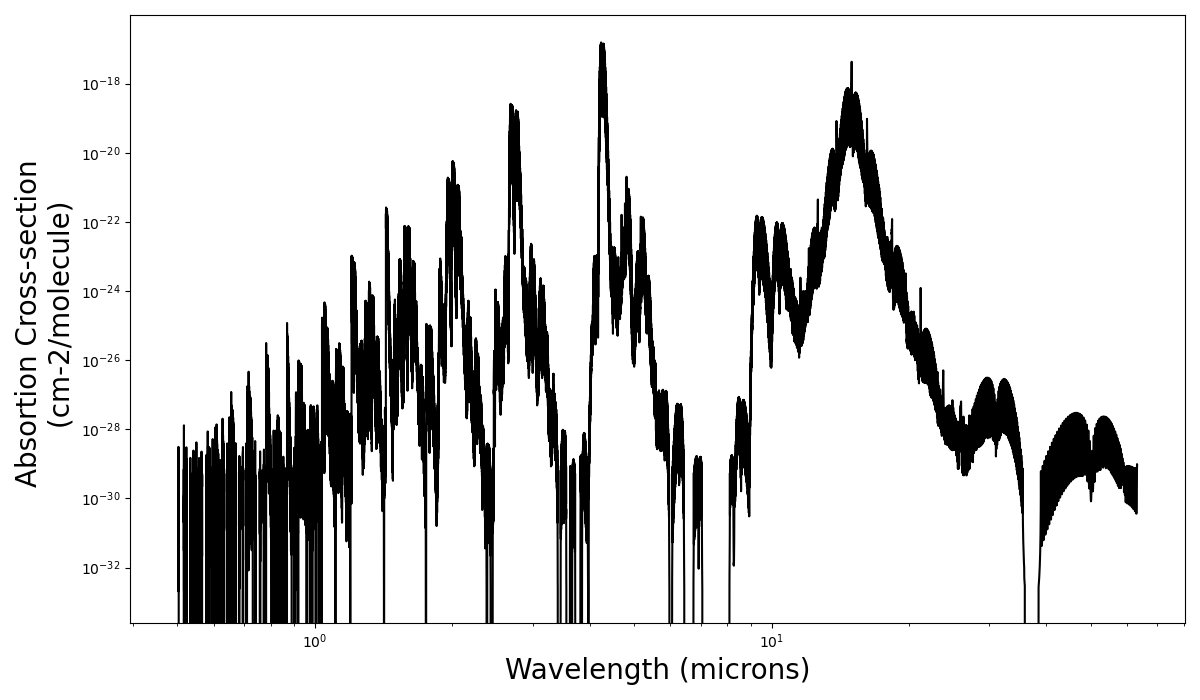
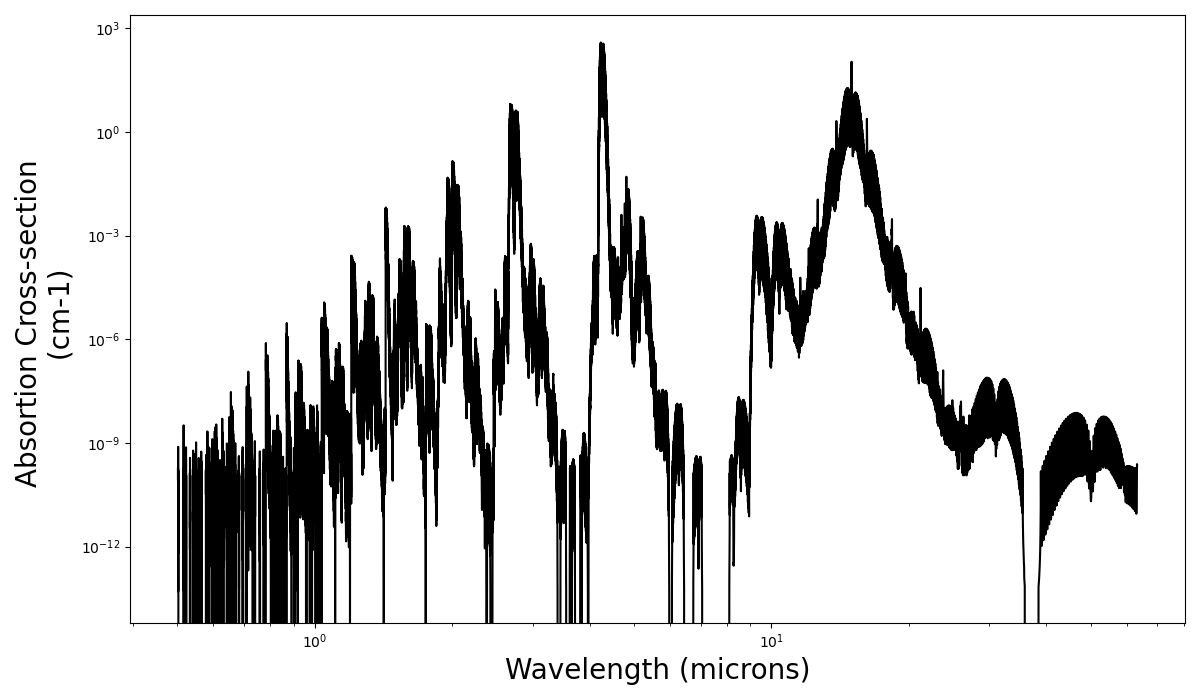
Monor changes.

diff --git a/Exercise3/AbsorptionSpectra.py b/Exercise3/AbsorptionSpectra.py
@@ -11,7 +11,7 @@ hapi.db_begin('data') #Load everything in the data website
 
 #Let's make some absortion cross-section
 nu_Voigt, coef_Voigt = hapi.absorptionCoefficient_Voigt(SourceTables='CO2', Diluent={'air':1}, \
-				Environment={'p':1.0, 'T':296}, OmegaStep=0.01)
+				Environment={'p':1.0, 'T':296}, OmegaStep=0.01, HITRAN_units=False)
 
 #Convert the wavenumbers to microns
 WavelengthGrid = 1/nu_Voigt*1e4
@@ -21,7 +21,7 @@ WavelengthGrid = 1/nu_Voigt*1e4
 plt.figure(figsize=(12,7))
 plt.plot(WavelengthGrid[::-1], coef_Voigt[::-1], "k-")
 plt.xlabel("Wavelength (microns)", fontsize=20)
-plt.ylabel("Absortion Cross-section \n (cm-2/molecule)", fontsize=20)
+plt.ylabel("Absortion Cross-section \n (cm-1)", fontsize=20)
 plt.xscale('log')
 plt.yscale('log')
 plt.tight_layout()

diff --git a/Exercise3/ReadMe.md b/Exercise3/ReadMe.md
@@ -1,3 +1,13 @@
-This exercise is to create absortion cross-section of CO from using hitran linelists. The cross-section for CO has already been downloaded using hapi.
+
+
+This exercise is to create absortion cross-section of CO2 from using hitran linelists.
+
+Download.py downloads the cross section.
+
+Make a folder data--- mkdir data
+
+and copy CO2.header and CO2.data into this folder. Alread done
+
+Now run AbsorptionSpectra.py
 
 Try using different line profile to see how they are different from one another.
